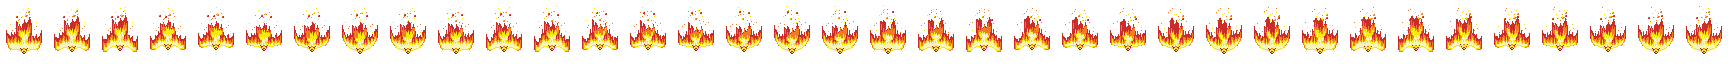
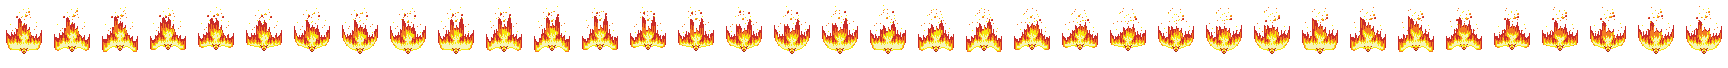
Creature-Idle-Animationen: Necromancer, Burning Skeleton, Cosmic Skeleton, Horned Demon, Arcane Eyes
Bugfix-Skip: Skeleton Necromancer | new creature idle animation
Bugfix-Skip: Burning Skeleton | new creature idle animation
Bugfix-Skip: Cosmic Skeleton | new creature idle animation
Bugfix-Skip: Horned Demon | new creature idle animation
Bugfix-Skip: Arcane Eyes | new creature idle animation

Claude-Session: https://claude.ai/code/session_012viCd75CxXBFivUDTdiQFQ

Changed region(s): [[0.0, 0.2353, 1.0, 0.6176]]

diff --git a/scripts/creature-animations/afflicted_vermin.py b/scripts/creature-animations/afflicted_vermin.py
@@ -7,34 +7,37 @@ das obere linke (Ausschnitt x 0–13, y 0–19 der extrahierten Figur, Rest = da
 Die Ebene hat nur Alpha 0/255 (keine Halbtransparenz).
 
 Aufruf:   python3 afflicted_vermin.py [--preview <ordner>]
-Ausgabe:  ../../data/creature-animations/afflicted-vermin.png + .json
+Ausgabe:  ../../data/creature-animations/afflicted-vermin.png + .json   (Frame 22×25 px, 48 Frames)
 
 Was im Sprite ist (Koordinaten im Sprite, x/y ab 0):
-* Goldener Krug (Zeilen 9–19, x 0–13): Gold in vier Stufen A=(194,150,0), B=(234,180,9), F=(254,197,22), L=(255,219,79) (Lichter bei (1,13),
-  (10,13), (12,13), (10,14), (2,12), (11,12)), Schatten C=(125,75,0); zwei Henkelschlitze (dunkelgrau) bei (2,13–15) und (11,13–15);
+* Tongefäß (Zeilen 9–19, x 0–13): Krug in vier ocker-gelben Stufen A=(194,150,0), B=(234,180,9), F=(254,197,22), L=(255,219,79) (Lichtpunkte bei
+  (1,13), (10,13), (12,13), (10,14), (2,12), (11,12)), Schatten C=(125,75,0); zwei Henkelschlitze (dunkelgrau) bei (2,13–15) und (11,13–15);
   Kragen/Rand Zeile 10 (links (3–4,10), rechts (9–10,10)); in der Krugöffnung (5–8, 10) sitzt der dunkle Hals der Ratte.
+  Der Krug ist KEIN Gold und Metall, sondern Ton: kein Glanz (Regel 14).
 * Ratte (Zeilen 3–10) schaut über den Krugrand nach rechts: graubrauner Kopf (D, E, G, V), Ohren bei (4–5, 4–5) und (10–11, 4–5)
   mit rosa Ohrinnerem (5,5), zwei rote Augen Q=(255,0,0) bei (8,6) und (10,6), schwarze Schnauzenlinie (9–11, 9), rosa Nase W bei (12,9),
-  dunkler Hals H bei (5–8, 10). Zwischen Kapuze und Stirn: hautfarbene Stirn (7–10, 3) und zwei hellgrüne Pixel S/T bei (8–9, 4)
-  (nicht eindeutig: Binde/Eiter/Glanz? → bleibt fest).
-* Kapuze (Zeilen 0–3): dunkelviolette Stoffkapuze (I, J, K) mit hellvioletten Lichtern N, R bei (7,1), (9,2), (10,0). Stoff → schwingt,
-  glänzt nicht.
-Fest bleiben: Krug (nur Glanz), Stirn und die grünen Pixel S/T, Schnauzenlinie, Ohren.
+  dunkler Hals H bei (5–8, 10). Zwischen Pilz und Stirn: hautfarbene Stirn (7–10, 3) und zwei hellgrüne Pixel S/T bei (8–9, 4)
+  (nicht eindeutig: Pilzbefall/Eiter/Glanz? → bleibt fest).
+* Pilz auf dem Kopf (Zeilen 0–3; im Sprite „Kapuze“ genannt): dunkelvioletter Hut (I, J, K) mit hellvioletten Lichtern N=(184,164,205),
+  R=(166,141,192) bei (7,1), (9,2), (10,0). Weicher Pilzkörper → schwingt, glänzt nicht.
+Fest bleiben: Krug, Stirn und die grünen Pixel S/T, Schnauzenlinie, Ohren.
 
 Ablauf (48 Frames à 65 ms = 3,12 s, nahtlos):
-* Spähen: die Ratte hebt und senkt Kopf samt Kapuze um ±1 px über dem Krugrand (zwei überlagerte Perioden 24 und 12). Hebt sie sich, wächst
+* Spähen: die Ratte hebt und senkt Kopf samt Pilz um ±1 px über dem Krugrand (zwei überlagerte Perioden 24 und 12). Hebt sie sich, wächst
   der Hals nach (ergänzt, siehe unten); sinkt sie, verschwindet das Kinn hinter dem Krugrand.
-* Kapuze: der Stoff schwingt an der Spitze bis ±2 px seitlich (Periode 16, Versatz wächst zur Spitze, Spitze hinkt nach).
+* Pilz: der Hut schwingt an der Spitze bis ±2 px seitlich (Periode 16, Versatz wächst zur Spitze, Spitze hinkt nach).
 * Nase zuckt (hüpft 1 px nach oben, Frames 6–7, 14–15, 30–31, 38–39); Augen blinzeln (Frames 20–22 und 40–42: rot → Fell) und glimmen
   schwächer (rot → dunkles Rosa, Frames 10–11, 26–27, 44).
-* Glanz nur am Gold (Regel 14): zweimal pro Schleife (Frames 4–16 und 28–40) zieht ein diagonales Lichtband über den Krug (1–2 Stufen
-  auf der Goldrampe C→A→B→F→L), dazu blitzen vierzackige Glitzersterne an den Krug-Lichtern (5 Frames Lauf) und acht Goldstaub-Punkte steigen
-  langsam neben dem Krug auf. Kapuze, Fell und Ratte glänzen nicht.
+* Sporen (Partikel): acht kleine runde Sporen lösen sich links und rechts unter dem Pilzhut und regnen langsam (0,5 px/Frame) nach unten, seitlich
+  leicht auswärts treibend: erst 1 px (Pilzviolett R), dann 2×2 (Kern N, Rand R), vor dem Verschwinden wieder 1 px und blinkend (verglimmt).
+  Sie fallen neben der Figur und die letzten Pixel vor dem Krug-Rand; nie unter den Rand des Frames (Fallhöhe ≤ Spritehöhe). Zwei Zyklen je 48 Frames.
+* KEIN Glanz (Regel 14): weder Lichtband noch Glitzersterne noch Goldstaub — Krug (Ton), Fell und Pilz glänzen nicht.
 Ergänzungen: Hals der Ratte im Krugmund bei Zeile 9: (5–8, 9) in Halsfarbe H=(66,60,47), dazu Seitenumriss (4, 9) D=(82,60,38) und (9, 9)
 M=(29,20,14) — wird sichtbar, sobald sich der Kopf hebt (liegt bei Ruhe hinter dem Kinn). Außerdem werden Innenpixel, die beim
-Schwingen der Kapuze oder Heben des Kopfes am Rand frei liegen, mit der Umrissfarbe eingefasst (Kapuze J, Kopf D, Krug A).
-Nähte (Regel 11) und Randpixel (Regel 16): Kopf, Kapuze, Hals und Krug liegen 4-verbunden; je Frame prüft das Skript, dass die Figur aus
+Schwingen des Pilzes oder Heben des Kopfes am Rand frei liegen, mit der Umrissfarbe eingefasst (Pilz J, Kopf D, Krug A).
+Nähte (Regel 11) und Randpixel (Regel 16): Kopf, Pilz, Hals und Krug liegen 4-verbunden; je Frame prüft das Skript, dass die Figur aus
 genau einem 4-zusammenhängenden Teil besteht (`randtest.py`: 0 Frames mit Randpixeln in Nicht-Umrissfarbe).
+Frame: nur so groß wie nötig — Figur 14×20 px mit 4 px Rand links/rechts (Platz für die Sporen), 3 px oben, 2 px unten (Mindestabstand).
 Alle Bewegungen laufen auf der vollen Leinwand (anim_lib/anim_amorph werfen ClipError). Nur ganze Pixel, nur Farben der Quelle.
 """
 import math
@@ -46,7 +49,7 @@ import anim_lib as L
 import anim_amorph as A
 
 N, MS = 48, 65
-PAD_L, PAD_R, PAD_T, PAD_B = 8, 8, 9, 4
+PAD_L, PAD_R, PAD_T, PAD_B = 4, 4, 3, 2
 
 spr = L.lade('afflicted-vermin')
 sh, sw = spr.shape[:2]
@@ -59,20 +62,17 @@ VA, VB, VC, VD, VE, VF, VG, VH, VI, VJ, VK, VL, VM, VN, VO, VP, VQ, VR, VS, VT, 
 _farben = {tuple(int(v) for v in p[:3]) for p in spr.reshape(-1, 4) if p[3]}
 for c in (VA, VB, VC, VD, VE, VF, VG, VH, VI, VJ, VK, VL, VM, VN, VO, VP, VQ, VR, VS, VT, VU, VV, VW):
     assert c in _farben, c
-GOLD = {VA, VB, VC, VF, VL}
-GOLDRAMPE = {VC: VA, VA: VB, VB: VF, VF: VL}
-STERN_FARBEN = {'m': VS, 'a': VL, 's': VF}
-STAUBFARBEN = {'c': VL, 'r': VF}
+KRUGFARBEN = {VA, VB, VC, VF, VL}                                               # Tongefäß (kein Glanz)
+SPOREN_FARBEN = {'c': VN, 'r': VR}                                               # helle Pilzfarben des Sprites
 
 # ── Teile ──
 yy, xx = np.mgrid[0:sh, 0:sw]
 farbe_ist = lambda cs: L.farbmaske(spr, list(cs))
-KRUG = farbe_ist(GOLD) | (farbe_ist([VH]) & ((xx == 2) | (xx == 11)) & (yy >= 13))
+KRUG = farbe_ist(KRUGFARBEN) | (farbe_ist([VH]) & ((xx == 2) | (xx == 11)) & (yy >= 13))
 RATTE = (spr[..., 3] > 0) & ~KRUG
-KAPUZE = farbe_ist([VI, VJ, VK, VN, VR]) & (yy <= 3)
-KOPF = RATTE & ~KAPUZE & (yy <= 9)
+PILZ = farbe_ist([VI, VJ, VK, VN, VR]) & (yy <= 3)
+KOPF = RATTE & ~PILZ & (yy <= 9)
 HALS = RATTE & (yy >= 10)                                                       # (5–8, 10): dunkler Hals im Krugmund
-KRUG_INNEN = KRUG & ~A.randpixel(spr)                                           # der Krugrand (Umriss) wird nie aufgehellt
 RAND_FARBEN = {tuple(int(v) for v in spr[y, x, :3]) for y, x in zip(*np.nonzero(A.randpixel(spr)))}
 AUGEN = [(8, 6), (10, 6)]
 NASE = (12, 9)
@@ -82,50 +82,44 @@ KOPF_DY = [int(round(0.9 * math.sin(2 * math.pi * i / 24) + 0.5 * math.sin(2 * m
 BLINZELN = {20, 21, 22, 40, 41, 42}
 AUGEN_DIMM = {10, 11, 26, 27, 44}
 NASE_ZUCKT = {6, 7, 14, 15, 30, 31, 38, 39}
-SWEEPS = [4, 28]
 assert KOPF_DY[0] == 0
 
-ORTE = {'l1': (1, 13), 'l2': (10, 13), 'l3': (12, 13), 'l4': (10, 14), 'f1': (2, 12), 'f2': (11, 12)}
-STERN_LAUF = [0, 1, 2, 1, 0]
-
-
-def _zeitplan():
-    plan = []
-    for s0, orte in ((4, ['f1', 'l1', 'l4', 'l2', 'f2', 'l3']), (28, ['l3', 'f2', 'l2', 'l1', 'f1', 'l4'])):
-        for o in orte:
-            d = sum(ORTE[o])
-            plan.append((int(round(s0 + (d - 4) / 3.0)) - 2, o))
-    plan += [(18, 'l2'), (22, 'f1'), (43, 'l3'), (46, 'l4')]
-    return plan
-
-
-STERNE = _zeitplan()
-
-
-def aktive_sterne(i):
-    return [(ort, STERN_LAUF[(i - s) % N]) for (s, ort) in STERNE if (i - s) % N < len(STERN_LAUF)]
-
-
-STAUB = [
-    dict(x=PAD_L - 3, y=PAD_T + 15, vx=-1, vy=-7, off=0, form='k', wackeln=1),
-    dict(x=PAD_L + 16, y=PAD_T + 14, vx=1, vy=-7, off=4, form='s', wackeln=1),
-    dict(x=PAD_L - 2, y=PAD_T + 11, vx=-2, vy=-7, off=8, form='k', wackeln=1),
-    dict(x=PAD_L + 15, y=PAD_T + 10, vx=2, vy=-7, off=12, form='k', wackeln=1),
-    dict(x=PAD_L - 3, y=PAD_T + 18, vx=-1, vy=-8, off=16, form='s', wackeln=1),
-    dict(x=PAD_L + 16, y=PAD_T + 18, vx=1, vy=-8, off=20, form='k', wackeln=1),
-    dict(x=PAD_L + 2, y=PAD_T + 19, vx=-1, vy=-8, off=2, form='k', wackeln=1),
-    dict(x=PAD_L + 11, y=PAD_T + 19, vx=1, vy=-8, off=14, form='k', wackeln=1),
+# Sporen: (x, y) = Startpunkt im Sprite (unter dem Pilzhut), (vx, vy) = Gesamtweg über die Lebensdauer, Phase = Startframe
+LEBEN, PERIODE = 20, 24
+SPOREN = [
+    dict(x=5, y=3, vx=-3, vy=10, f0=0), dict(x=12, y=2, vx=2, vy=10, f0=3), dict(x=3, y=1, vx=-2, vy=11, f0=6), dict(x=13, y=1, vx=1, vy=12, f0=9),
+    dict(x=5, y=2, vx=-2, vy=9, f0=12), dict(x=12, y=4, vx=2, vy=8, f0=15), dict(x=4, y=0, vx=-1, vy=12, f0=18), dict(x=13, y=3, vx=2, vy=10, f0=21),
 ]
+
+
+def sporen_ebene(i):
+    """Fallende Sporen (runde Punkte, kein Alpha): 1 px → 2×2 → 1 px blinkend → weg (nie unter den Frame)."""
+    e = L.leer(H, W)
+    for sp in SPOREN:
+        a = (i - sp['f0']) % PERIODE
+        if a >= LEBEN:
+            continue
+        x = sp['x'] + int(round(sp['vx'] * a / float(LEBEN))) + int(round(0.7 * math.sin(2 * math.pi * a / 10.0)))
+        y = sp['y'] + int(round(sp['vy'] * a / float(LEBEN)))
+        if a < 3:
+            pix = [(0, 0, VR)]
+        elif a < LEBEN - 6:
+            pix = [(0, 0, VN), (1, 0, VR), (0, 1, VR), (1, 1, VR)]
+        elif a < LEBEN - 1 and a % 2 == 0:
+            pix = [(0, 0, VR)]
+        else:
+            pix = []
+        for dx, dy, c in pix:
+            X, Y = PAD_L + x + dx, PAD_T + y + dy
+            if not (2 <= X < W - 2 and 2 <= Y < H - 2):
+                raise L.ClipError(f'Spore bei ({X},{Y}) zu nah am Rand des Frames {W}×{H}')
+            e[Y, X, :3] = c
+            e[Y, X, 3] = 255
+    return e
 
 
 def sprite_mit_effekten(i):
     sp = spr.copy()
-    # Glanz nur am Krug (Gold): Lichtband 4 px breit + Kern 2 px
-    for s0 in SWEEPS:
-        if 0 <= i - s0 <= 10:
-            t = 2 + 3 * (i - s0)
-            sp = A.farb_schritt(sp, GOLDRAMPE, KRUG_INNEN & (xx + yy >= t) & (xx + yy < t + 4))
-            sp = A.farb_schritt(sp, GOLDRAMPE, KRUG_INNEN & (xx + yy >= t + 1) & (xx + yy < t + 3))
     # Augen: blinzeln (Fell) oder gedimmt
     for (x, y) in AUGEN:
         if i in BLINZELN:
@@ -151,32 +145,23 @@ def figur(i):
         hals[PAD_T + 9, PAD_L + x, :3] = c
         hals[PAD_T + 9, PAD_L + x, 3] = 255
     kopf = L.versetze(schicht(KOPF), 0, dy)
-    kapuze = L.zeilen_welle(schicht(KAPUZE), PAD_T + 4, 1.9, L.sinus(i, 16))
-    kapuze = L.versetze(kapuze, 0, dy)
-    kapuze, brueck = A.verbinde4(kapuze)
+    pilz = L.zeilen_welle(schicht(PILZ), PAD_T + 4, 1.9, L.sinus(i, 16))
+    pilz = L.versetze(pilz, 0, dy)
+    pilz, brueck = A.verbinde4(pilz)
     krug = schicht(KRUG)
-    fig = L.zusammen(H, W, [(hals, 0, 0), (kopf, 0, 0), (kapuze, 0, 0), (krug, 0, 0)])
+    fig = L.zusammen(H, W, [(hals, 0, 0), (kopf, 0, 0), (pilz, 0, 0), (krug, 0, 0)])
     fig, _ = A.verbinde4(fig)
     # Ergänzung (Regel 16): durch das Schwingen der Kapuze oder das Heben des Kopfes kann ein Innenpixel (Licht, Fell) am Rand frei liegen;
     # die leeren Nachbarfelder bekommen dann den Umriss (Kapuze J, Kopf D, Krug A)
-    kap = kapuze[..., 3] > 0
+    kap = pilz[..., 3] > 0
     kop = kopf[..., 3] > 0
     fig, neu = A.umriss_ergaenzen(fig, RAND_FARBEN, lambda x, y: VJ if kap[y, x] else (VD if kop[y, x] else VA))
-    return dict(fig=fig, kopf_dy=dy, brueck=brueck, neu=neu, teile=dict(hals=hals, kopf=kopf, kapuze=kapuze, krug=krug))
-
-
-def sterne_ebene(i):
-    e = L.leer(H, W)
-    for ort, stufe in aktive_sterne(i):
-        x, y = ORTE[ort]
-        A.stern(e, PAD_L + x, PAD_T + y, stufe, STERN_FARBEN)
-    return e
+    return dict(fig=fig, kopf_dy=dy, brueck=brueck, neu=neu, teile=dict(hals=hals, kopf=kopf, pilz=pilz, krug=krug))
 
 
 def frame(i):
     f = figur(i)
-    staub = L.puff_ebene(H, W, i, 24, STAUB, STAUBFARBEN)
-    return L.zusammen(H, W, [(staub, 0, 0), (f['fig'], 0, 0), (sterne_ebene(i), 0, 0)])
+    return L.zusammen(H, W, [(f['fig'], 0, 0), (sporen_ebene(i), 0, 0)])        # Sporen vor der Figur (nur neben dem Körper, nie über dem Gesicht)
 
 
 if __name__ == '__main__':

diff --git a/scripts/creature-animations/chaorc_pyre_grill_master.py b/scripts/creature-animations/chaorc_pyre_grill_master.py
@@ -80,7 +80,7 @@ for k in range(N_ZUNGEN):
         continue
     oben = sum(prof[x][0] for x in xs) / len(xs)
     unten = max(prof[x][1] for x in xs)
-    ZUNGEN.append(FEU.Zunge(x0 + PAD_L, unten + PAD_T, round(unten - oben + 1), 2.9))
+    ZUNGEN.append(FEU.Zunge(x0 + PAD_L, unten + PAD_T, round(unten - oben + 1), 4.0))
 # Koch ist fest im Weg (Feuer wird nicht über ihn gezeichnet); der Spieß liegt davor und wird nicht ausgespart (Feuer darunter, kein Loch beim Gleiten)
 sperre = np.zeros((H, W), bool)
 for y in range(KOCH.shape[0]):
@@ -97,7 +97,7 @@ class FeuerKompakt(FEU.Feuer):
     h_bereich   Höhenfaktoren der Posen (Standard 0.86 … 1.14), lean/bend/dk wie das Original, aber gemäßigt."""
 
     def __init__(self, h, w, zungen, rampe, n=48, seed=1, posen=12, amplitude=1.0, sperre=None, tempo=(2, 3),
-                 min_breite=2, faden_max=2, spalten=0.10, spalt_ab=2.8, h_bereich=(0.86, 1.14)):
+                 min_breite=2, faden_max=2, spalten=0.06, spalt_ab=3.8, h_bereich=(0.86, 1.14)):
         import random
         self.min_breite, self.faden_max, self.spalten, self.spalt_ab, self.h_bereich = min_breite, faden_max, spalten, spalt_ab, h_bereich
         self.h, self.w, self.zungen, self.rampe, self.n, self.amp = h, w, list(zungen), rampe, n, amplitude
@@ -125,12 +125,12 @@ class FeuerKompakt(FEU.Feuer):
         h = rnd.choice([lo, (lo + 1) / 2, 1.0, 1.0, (hi + 1) / 2, hi])
         return dict(
             h=1.0 + (h - 1.0) * a,
-            lean=rnd.uniform(-1.9, 1.9) * a, bend=rnd.uniform(-1.0, 1.0) * a,
+            lean=rnd.uniform(-1.3, 1.3) * a, bend=rnd.uniform(-0.6, 0.6) * a,
             w=1.0 + rnd.uniform(-0.16, 0.16) * a,
             u=[1.0, rnd.uniform(0.94, 1.0), rnd.uniform(0.78, 0.96), rnd.uniform(0.42, 0.7), rnd.uniform(0.14, 0.42)],
             wk=[1.0, 0.8 * (1 + rnd.uniform(-0.08, 0.08)), 0.58 * (1 + rnd.uniform(-0.15, 0.15)),
                 0.38 * (1 + rnd.uniform(-0.2, 0.2)), 0.22 * (1 + rnd.uniform(-0.3, 0.3))],
-            dk=[0.0, rnd.uniform(-0.5, 0.5) * a, rnd.uniform(-1.0, 1.0) * a, rnd.uniform(-1.1, 1.1) * a, rnd.uniform(-1.3, 1.3) * a],
+            dk=[0.0, rnd.uniform(-0.4, 0.4) * a, rnd.uniform(-0.8, 0.8) * a, rnd.uniform(-1.0, 1.0) * a, rnd.uniform(-1.2, 1.2) * a],
             split=(rnd.uniform(0.7, 1.0) if (z.breite >= self.spalt_ab and rnd.random() < self.spalten) else 0.0),
             split_u=rnd.uniform(0.62, 0.74))
 
@@ -145,7 +145,7 @@ class FeuerKompakt(FEU.Feuer):
                 continue
             u = dy / float(Hh)
             c = self._mitte(z, p, u)
-            ho = w0 * (1 - u ** 2.4) ** 0.6
+            ho = w0 * (1 - u ** 1.35) ** 0.85                                      # läuft über die ganze Höhe spitz zu
             spitze = dy >= Hh - 1                                              # die letzten beiden Zeilen laufen spitz zu
             if not spitze:
                 ho = max(ho, mb)
@@ -194,11 +194,30 @@ class FeuerKompakt(FEU.Feuer):
             if not gekappt:
                 break
 
+    def _luecken_fuellen(self, idx):
+        """Füllt 1-px-Schlitze (links+rechts oder oben+unten belegt) und eingeschlossene Löcher mit Rot — keine Gabeln mit hauchdünner Kerbe."""
+        import cv2
+        for _ in range(3):
+            m = (idx >= 0) | self.sperre
+            pad = np.pad(m, 1)
+            schlitz = ~m & ((pad[1:-1, :-2] & pad[1:-1, 2:]) | (pad[:-2, 1:-1] & pad[2:, 1:-1]))
+            schlitz &= ~self.sperre
+            if not schlitz.any():
+                break
+            idx[schlitz & (idx < 0)] = 1
+        m = ((idx >= 0) | self.sperre).astype(np.uint8)
+        n, lab = cv2.connectedComponents(1 - m, connectivity=4)
+        rand_labels = set(lab[0, :]) | set(lab[-1, :]) | set(lab[:, 0]) | set(lab[:, -1])
+        for c in range(1, n):
+            if c not in rand_labels:
+                idx[(lab == c) & ~self.sperre] = 1
+
     def ebene(self, i, hoehen_bonus=0):
         idx = np.full((self.h, self.w), -1, np.int8)
         for g, z in enumerate(self.zungen):
             p = self.bank[g][self.folge[g][i % self.n]]
             self._zeichne(idx, z, p, hoehen_bonus)
+        self._luecken_fuellen(idx)
         self._faeden_kuerzen(idx)
         belegt = (idx >= 0) | self.sperre
         pad = np.pad(belegt, 1)

diff --git a/scripts/creature-animations/cute_phoenix.py b/scripts/creature-animations/cute_phoenix.py
@@ -25,8 +25,9 @@ Ablauf (36 Frames à 70 ms = 2,52 s):
 * Feuer wie Feuer (Regel 15): Die FLÜGEL-Zungen flackern unverändert unregelmäßig in 12 Posen à 3 Frames; jede Zunge (Gipfel der Silhouette) hat ihre eigene Pose-Tabelle und
   einen eigenen Versatz. Der Teil über dem hellen Kern (rote Spitze, orange Mitte) wird gestreckt/gestaucht, die Farbfolge wandert mit der Zunge; Kern und Basis bleiben ruhig.
   Kein Lichtband, keine Sterne.
-* Der Flammenfächer (Körper, Mitte) flackert stärker (Nutzerwunsch): F.feuer_schichten — die Farbschichten Rot-Außenhaut / Orange / Gelb / heller Creme-Kern schwanken je Spalte mit
-  eigener Höhe und Neigung gegeneinander (12 Posen à 3 Frames je Zunge und Schicht), der helle Kern wandert also mit auf und ab; die Basis (ab Zeile 22) bleibt ruhig.
+* Der Flammenfächer (Körper, Mitte) flackert stärker (Nutzerwunsch): Zungen wie bisher (F.feuer_zungen) und zusätzlich F.feuer_schichten — die Farbschichten
+  Rot-Außenhaut / Orange / Gelb / heller Creme-Kern schwanken je Spalte mit eigener Höhe und Neigung gegeneinander (12 Posen à 3 Frames je Zunge und Schicht, ±2 px je
+  Stufe), der helle Kern wandert also mit auf und ab; die Basis (ab Zeile 22) bleibt ruhig.
 * Abreißende Funken: von den Zungenspitzen steigen kleine runde Funken (Rot/Orange/Gelb) langsam auf (Formen k, s) — 14 vom Körper (vorher 8) + 6 von den Flügeln = 20 Partikel.
 * Blinzeln (Frames 28–30).
 
@@ -55,6 +56,7 @@ DUNKELROT = (159, 35, 32)
 KERN = [GELB, CREME]                                         # heller Kern: hier setzt die Zunge an
 HEISS = {ROT: 0, ORANGE: 1, GELB: 2, CREME: 3}                # Farbschichten von außen (kühl) nach innen (heiß)
 Y_ENDE = PAD_T + 22                                          # ab hier (Creme-Band) steht die Basis des Fächers ruhig
+SCHICHT_AMP = (2.4, 2.4, 2.2, 2.0)                           # Pixel je Stufe −2…+2 für Rot / Orange / Gelb / Creme-Kern
 
 wing_l = vorhanden & (xx <= 9)
 wing_r = vorhanden & (xx >= 26)
@@ -90,6 +92,9 @@ PUFFS1 = funken(SPITZEN_F, 0, 5, ('k', 's'), -13) + funken(SPITZEN_L, 5, 2, ('k'
 PUFFS2 = funken(SPITZEN_F[1:], 17, 3, ('k', 's'), -14) + funken(SPITZEN_L[1:], 23, 1, ('k',), -12, -1) + funken(SPITZEN_R[1:], 29, 1, ('k',), -12, 1)
 
 
+GRUPPEN_F = F.schichten_gruppen(F.ebene(spr, koerper, H, W, PAD_L, PAD_T), HEISS, Y_ENDE)   # Zungeneinteilung der Ruhepose (bleibt fest)
+
+
 def fan_funken(spalten, ab, formen, vy, abstand=6):
     """Zusätzliche Funken vom Fächer: Start an der obersten Pixelzeile der angegebenen Fächerspalten (Ruhepose)."""
     top = F.ebene(spr, koerper, H, W, PAD_L, PAD_T)
@@ -123,7 +128,8 @@ def frame(i, partikel=True):
                                    **{p: ROT for p in (AUG_L[2], AUG_L[3], AUG_R[2], AUG_R[3])}})
 
     # Feuer: Zungen flackern (Regel 15), je Teil eigene Zufallsfolge
-    kp = F.feuer_schichten(kp, i, N, HEISS, Y_ENDE, seed=11, amp=(4.5, 3.5, 3.0, 2.5))      # Fächer: Farbschichten schwanken gegeneinander, Kern wandert
+    kp = F.feuer_zungen(kp, i, N, KERN, pose_frames=3, seed=11, hub=0.34)                  # Fächer: Zungen wie im Vorstand …
+    kp = F.feuer_schichten(kp, i, N, HEISS, Y_ENDE, seed=53, amp=SCHICHT_AMP, neigung=0.5, gruppen=GRUPPEN_F)   # … dazu schwanken die Farbschichten gegeneinander, Kern wandert
     wl = F.feuer_zungen(wl, i, N, KERN, pose_frames=3, seed=23, hub=0.34)
     wr = F.feuer_zungen(wr, i, N, KERN, pose_frames=3, seed=37, hub=0.34)
 

diff --git a/scripts/creature-animations/anim_flieger.py b/scripts/creature-animations/anim_flieger.py
@@ -513,14 +513,26 @@ def drehen(a, pivot_x, pivot_y, winkel, glatt=False):
     return out
 
 
-def feuer_schichten(a, i, n, heiss, y_ende, pose_frames=3, seed=11, amp=(4.0, 3.0, 2.5, 2.0), neigung=1.0, min_zunge=3):
+def schichten_gruppen(a, heiss, y_ende, min_zunge=3):
+    """Zungengruppen (Gipfel, Zuordnung Spalte → Gipfel) des Ausgangsbildes `a` für feuer_schichten(gruppen=…): bleibt die Gruppierung fest,
+    obwohl das Feuer vorher (z. B. durch feuer_zungen) die Spaltenoberkanten verschoben hat, springen die Pose-Tabellen nicht um."""
+    info = {}
+    for x in range(a.shape[1]):
+        ys = [y for y in np.nonzero(a[:, x, 3])[0] if y < y_ende]
+        if len(ys) >= min_zunge:
+            info[x] = (int(min(ys)), y_ende)
+    return _zungen_gipfel(info) if info else ([], {})
+
+
+def feuer_schichten(a, i, n, heiss, y_ende, pose_frames=3, seed=11, amp=(4.0, 3.0, 2.5, 2.0), neigung=1.0, min_zunge=3, gruppen=None):
     """Feuer mit UNABHÄNGIGEN Farbschichten. `heiss` = {Farbe: Stufe} (0 = kühlste Außenhaut, z. B. Rot … 3 = heißer Kern, z. B. Creme).
     Je Spalte (oberhalb der festen Basis ab Zeile y_ende) liegen die Schichtgrenzen G_j = erste Zeile von oben mit Stufe ≥ j. Jede Grenze bekommt ihre
     eigene Verschiebung d_j (Zungen = Gipfel der Silhouette, je Zunge und je Grenze eine eigene Pose-Tabelle, Posen à `pose_frames` Frames, Stufen −2…+2,
     mal amp[j] Pixel; dazu je Zunge/Grenze eine eigene Neigung, die die Verschiebung quer zur Zunge ansteigen lässt): Außenhaut, orange Mitte, gelb und
     heller Kern schwanken also gegeneinander und auch der helle Kern wandert. Zwischen den Grenzen wird die Spalte linear (Nächster-Nachbar) gedehnt/gestaucht,
     ab y_ende bleibt alles stehen. Die Grenzen bleiben in Reihenfolge (mindestens 1 px Abstand), jede Spalte reicht durchgehend bis zur Basis → 4-verbunden;
-    die oberste Zeile jeder Zunge behält die Quellfarbe der Spitze (Umriss)."""
+    die oberste Zeile jeder Zunge behält die Quellfarbe der Spitze (Umriss).
+    gruppen=(gipfel, zuordnung) (aus schichten_gruppen am Ruhebild) hält die Zungeneinteilung fest, wenn `a` schon bewegt wurde."""
     out = a.copy()
     h, w = a.shape[:2]
     kern = list(heiss)
@@ -540,7 +552,12 @@ def feuer_schichten(a, i, n, heiss, y_ende, pose_frames=3, seed=11, amp=(4.0, 3.
     if not spalten:
         return out
     info = {x: (v[0], y_ende) for x, v in spalten.items()}
-    gipfel, zu = _zungen_gipfel(info)
+    gipfel, zu = gruppen if gruppen is not None else _zungen_gipfel(info)
+    if gruppen is not None:                                       # Spalten, die in der Ruhepose keine Zunge waren: nächster Gipfel
+        zu = dict(zu)
+        for x in spalten:
+            if x not in zu:
+                zu[x] = min(range(len(gipfel)), key=lambda g: (abs(x - gipfel[g]), g))
     k_posen = max(1, n // pose_frames)
     rng = np.random.RandomState(seed)
     tab = []
